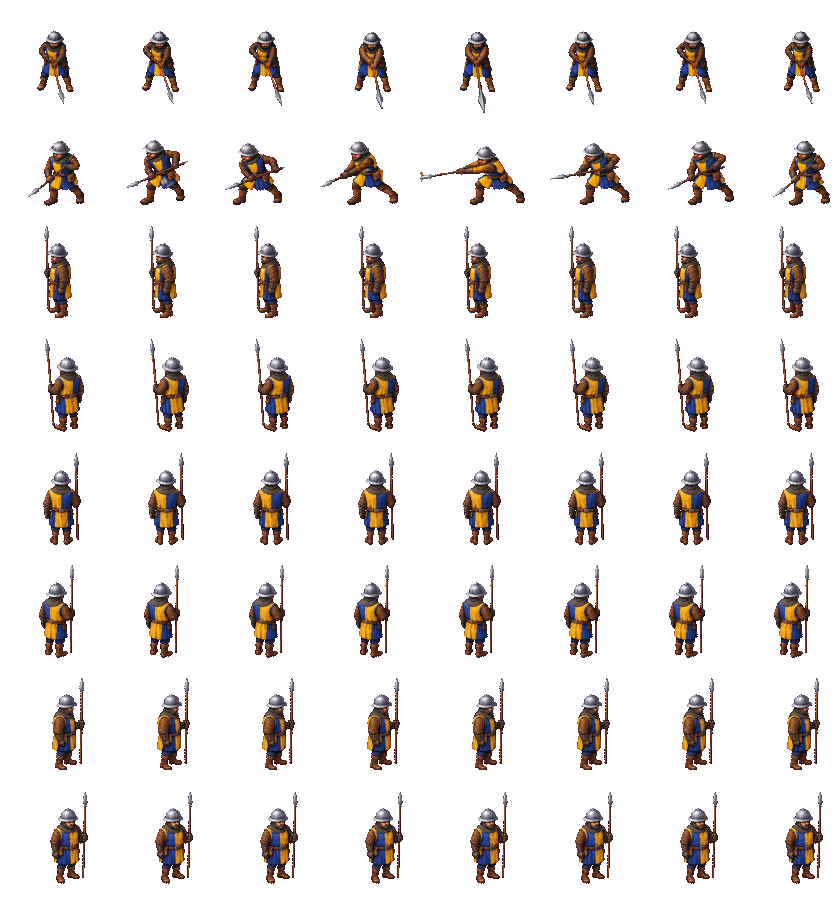
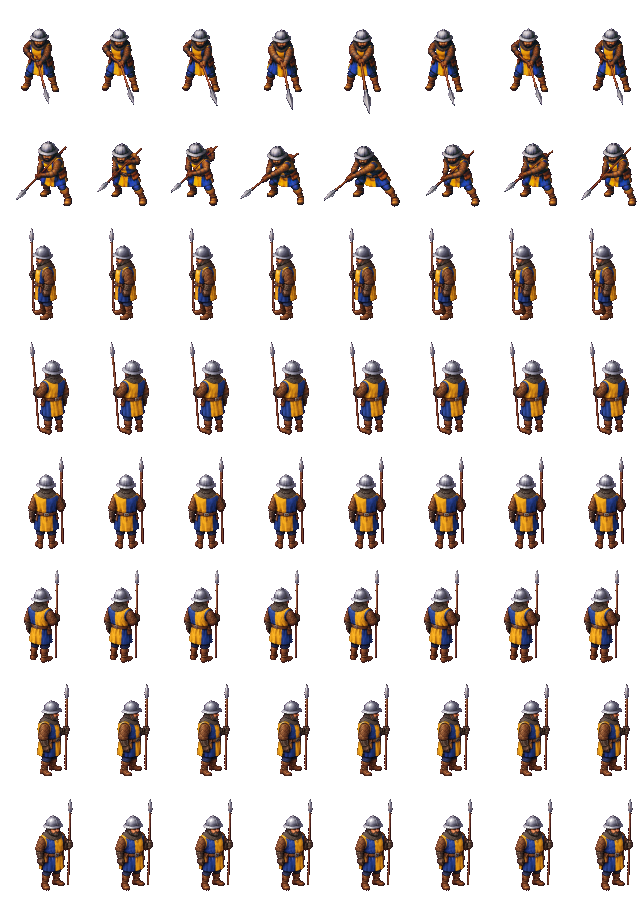
Aanvallen ZW van de speerman; de helm dichtgemaakt voor het meten, en een speer bij de man die hem vasthoudt
Vel 11 was meteen goed. Maar de helm werd in twee stukken gemeten (de donkere ribben), zodat hij twee keer te groot
uitkwam: helmVan maakt het staal nu eerst dicht. En de punt van beeld 5 raakte de laars van beeld 4 en ging naar
beeld 4: een dun stuk (schacht en punt) gaat nu naar het beeld waar het met zijn gekleurde pixels (het hout) het
langst aan grenst, niet met het staal van de punt. Staan en lopen komen pixel voor pixel hetzelfde uit (nagemeten per
beeld, op het anker).

diff --git a/beelden/beschrijving.js b/beelden/beschrijving.js
@@ -544,11 +544,11 @@
     "speerman": {
      "naam": "speerman",
      "cel": [
-      141,
-      123
+      114,
+      124
      ],
      "anker": [
-      93,
+      75,
       97
      ],
      "snelheid": 1.5,
@@ -599,11 +599,11 @@
        "fps": 10,
        "herhaal": false,
        "cel": [
-        105,
-        113
+        80,
+        114
        ],
        "anker": [
-        61,
+        46,
         92
        ]
       },
@@ -613,11 +613,11 @@
        "fps": 8,
        "herhaal": false,
        "cel": [
-        132,
-        97
+        105,
+        96
        ],
        "anker": [
-        88,
+        70,
         92
        ]
       }

diff --git a/ontwerp/beelden-van-de-generator.md b/ontwerp/beelden-van-de-generator.md
@@ -299,7 +299,11 @@ generator van 1,7 MB; op spelmaat is het verschil ruis) en lopen in het spel. Wa
   staat hij weer. Maar (Marcel: "Maar is dit nu echt Zuid?"): zijn lijf staat naar het zuiden, de speer wijst zo'n 45
   graden naar rechtsonder, half naar ZO. Met een steilere hoek ("about 20 degrees from straight down", de punt laag voor zijn
   voeten) kwam hij goed: echt zuid. Die steekt onder zijn voeten uit, en daarom zoekt `generator.cjs` de voeten nu zonder
-  het staal, en volgen de aanval en het vallen de maat van het lopen (naar de helm): gebukt werd hij anders 15% groter. Bij N (vel 14), van achteren, speelt hetzelfde: dan de punt
+  het staal, en volgen de aanval en het vallen de maat van het lopen (naar de helm): gebukt werd hij anders 15% groter.
+- **Vel 11, aanvallen ZW** (21 okt): meteen goed (de speer op één lijn naar linksonder, beeld 8 weer de klaarstand). De
+  generator tekende hem kleiner (de helm 89 tegen 107 bij lopen ZW); daarom wordt de helm dichtgemaakt voor hij gemeten
+  wordt (de donkere ribben knipten hem in tweeën). En de punt van beeld 5 raakte de laars van beeld 4: een dun stuk gaat
+  nu naar het beeld waar het met zijn hout het langst aan grenst, niet met het staal van de punt. Bij N (vel 14), van achteren, speelt hetzelfde: dan de punt
   omhoog, van de kijker af.
 
 ## De inventaris

diff --git a/ontwerp/code.md b/ontwerp/code.md
@@ -1217,7 +1217,9 @@ de browser en in de Node-tests werkt. De volgorde van de scripts in `index.html`
   vel van de generator (een rij poppetjes op magenta, `gereedschap/pixelart/bron/<soort>/`, webp via de Python van ComfyUI
   naar png) passend: de achtergrond weg (`voorgrond`: magenta is waar rood en blauw ver boven groen liggen), de poppetjes
   los (`beeldenVan`: per stuk het dichtste midden in de rij; een klein stukje bij het dichtste grote stuk; een stuk over
-  meer middens via de kernen van de lijven, `toewijzing` vooraf en groeien), het anker (staan: het midden van de voeten;
+  meer middens: `toewijzing` vooraf, de kernen van de lijven (zonder het staal) naar hun midden en groeiend over wat dik
+  is, en elk dun stuk dat overblijft, zoals een schacht met zijn punt, bij het beeld waar het met zijn gekleurde pixels
+  het langst aan grenst: de schacht zit in de handen van zijn man, de punt raakt de buurman alleen met staal), het anker (staan: het midden van de voeten;
   een beweging: het midden van zijn vak en één grondlijn), de kleur per stof gelijk aan die van het staande vel
   (`kleurGelijk`: grijs, de tinten van `FIGUREN[naam].stoffen` en de rest, in Lab het gemiddelde, en de spreiding van de
   lichtheid hoogstens die van het staande vel), verkleind (`verkleind`: gemiddeld per blok, dan scherp) naar

diff --git a/ontwerp/werklijst.md b/ontwerp/werklijst.md
@@ -32,7 +32,7 @@ de pijplijn van vraag 180 (Q, f; niet in de cloud). **Bezig in sessie `lokaal-da
 **nieuwe weg** (Marcel, 21 okt: "Ok, dan zullen we moeten inventariseren welke gebouwen en poppetjes we nodig hebben. Dan
 kunnen we de andere generator deze 1 voor 1 laten maken. Jij moet dan zorgen dat ze passend worden in het spel"): de
 generator van zijn plaat maakt de bron, wij maken het passend; eerst de inventaris (`beelden-van-de-generator.md`). De
-speerman staat en loopt in het spel in acht richtingen (21 okt, de masterprompt); aanvallen Z staat erin; **wacht op Marcel**: vel 11 tot 25 (in
+speerman staat en loopt in het spel in acht richtingen (21 okt, de masterprompt); aanvallen Z en ZW staan erin; **wacht op Marcel**: vel 12 tot 25 (in
 het nieuwe gesprek, `beelden-van-de-generator.md`), en eventueel 3 en 4 opnieuw (de punt naar achteren).
 
 **Marcels acht punten van 20 okt** (R, vraag 182 tot 189: egaliseren met de schop, de maat van de huizen, dragers, een
